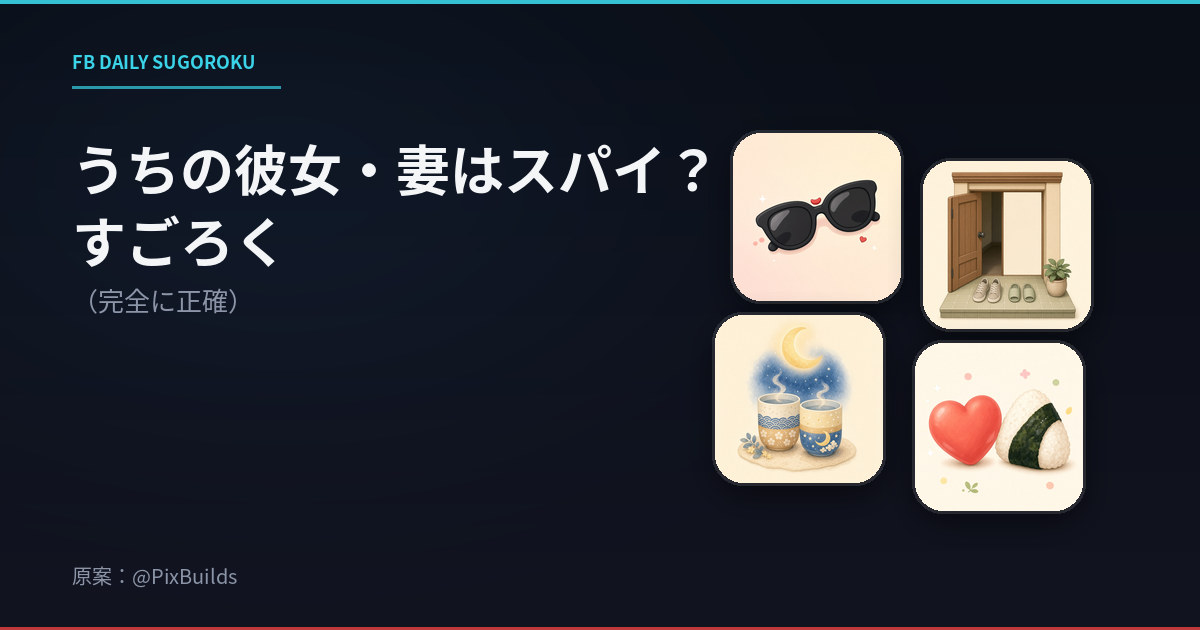
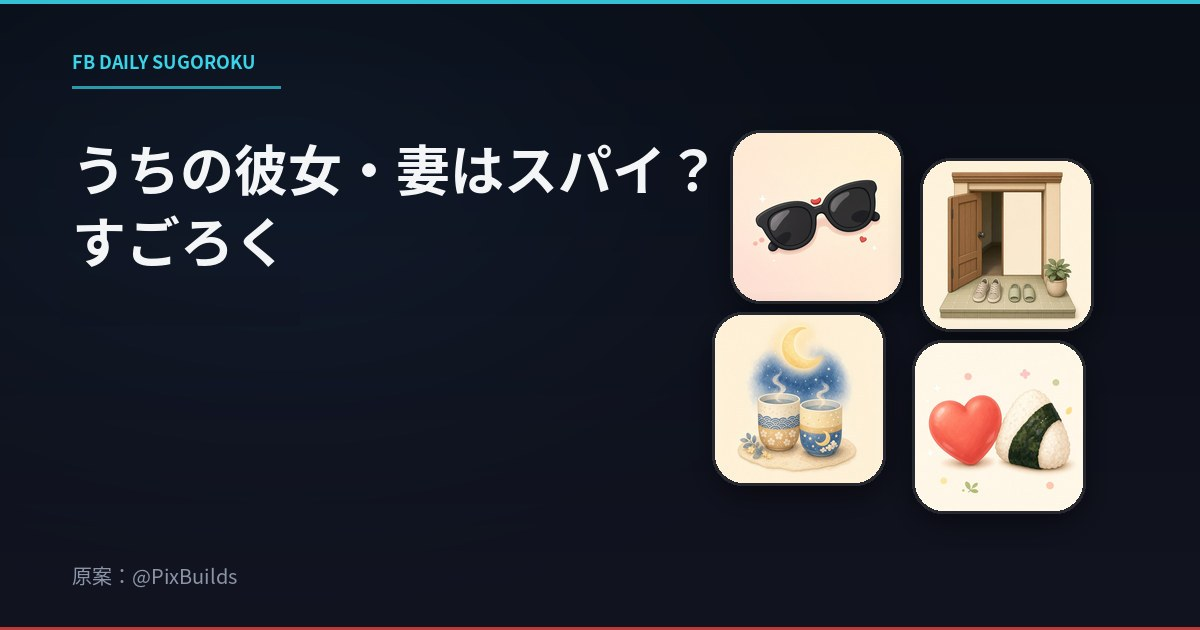
Remove subtitle

diff --git a/index.html b/index.html
@@ -4,7 +4,7 @@
 <meta charset="utf-8">
 <meta name="viewport" content="width=device-width, initial-scale=1, viewport-fit=cover">
 <title>うちの彼女・妻はスパイ？すごろく</title>
-<meta name="description" content="彼女・妻の行動を7つのマスでたどり、スパイかシロかを判定するすごろく（完全に正確）。">
+<meta name="description" content="彼女・妻の行動を7つのマスでたどり、スパイかシロかを判定するすごろく。">
 <!--
   OGP画像のURLについて：
   いまは同じフォルダの相対パス og.jpg です。
@@ -13,7 +13,7 @@
   Facebookのシェアでは絶対URLが必要です。差し替え後はシェアデバッガーで確認してください。
 -->
 <meta property="og:title" content="うちの彼女・妻はスパイ？すごろく">
-<meta property="og:description" content="彼女・妻の行動を7つのマスでたどり、スパイかシロかを判定するすごろく（完全に正確）。">
+<meta property="og:description" content="彼女・妻の行動を7つのマスでたどり、スパイかシロかを判定するすごろく。">
 <meta property="og:image" content="https://shinyaoku-futurology.github.io/fb-daily-sugoroku/og.jpg">
 <meta property="og:url" content="https://shinyaoku-futurology.github.io/fb-daily-sugoroku/">
 <meta property="og:image:width" content="1200">
@@ -22,7 +22,7 @@
 <meta property="og:locale" content="ja_JP">
 <meta name="twitter:card" content="summary_large_image">
 <meta name="twitter:title" content="うちの彼女・妻はスパイ？すごろく">
-<meta name="twitter:description" content="彼女・妻の行動を7つのマスでたどり、スパイかシロかを判定するすごろく（完全に正確）。">
+<meta name="twitter:description" content="彼女・妻の行動を7つのマスでたどり、スパイかシロかを判定するすごろく。">
 <meta name="twitter:image" content="https://shinyaoku-futurology.github.io/fb-daily-sugoroku/og.jpg">
 <style>
 :root {
@@ -453,7 +453,6 @@ footer.site .mf { color: var(--cyan); font-weight: 700; white-space: nowrap; }
     <header class="hero">
       <p class="kicker">FB DAILY SUGOROKU</p>
       <h1>うちの彼女・妻はスパイ？すごろく</h1>
-      <p class="sub">（完全に正確）</p>
       <p class="credit">原案：@PixBuilds</p>
     </header>
 
